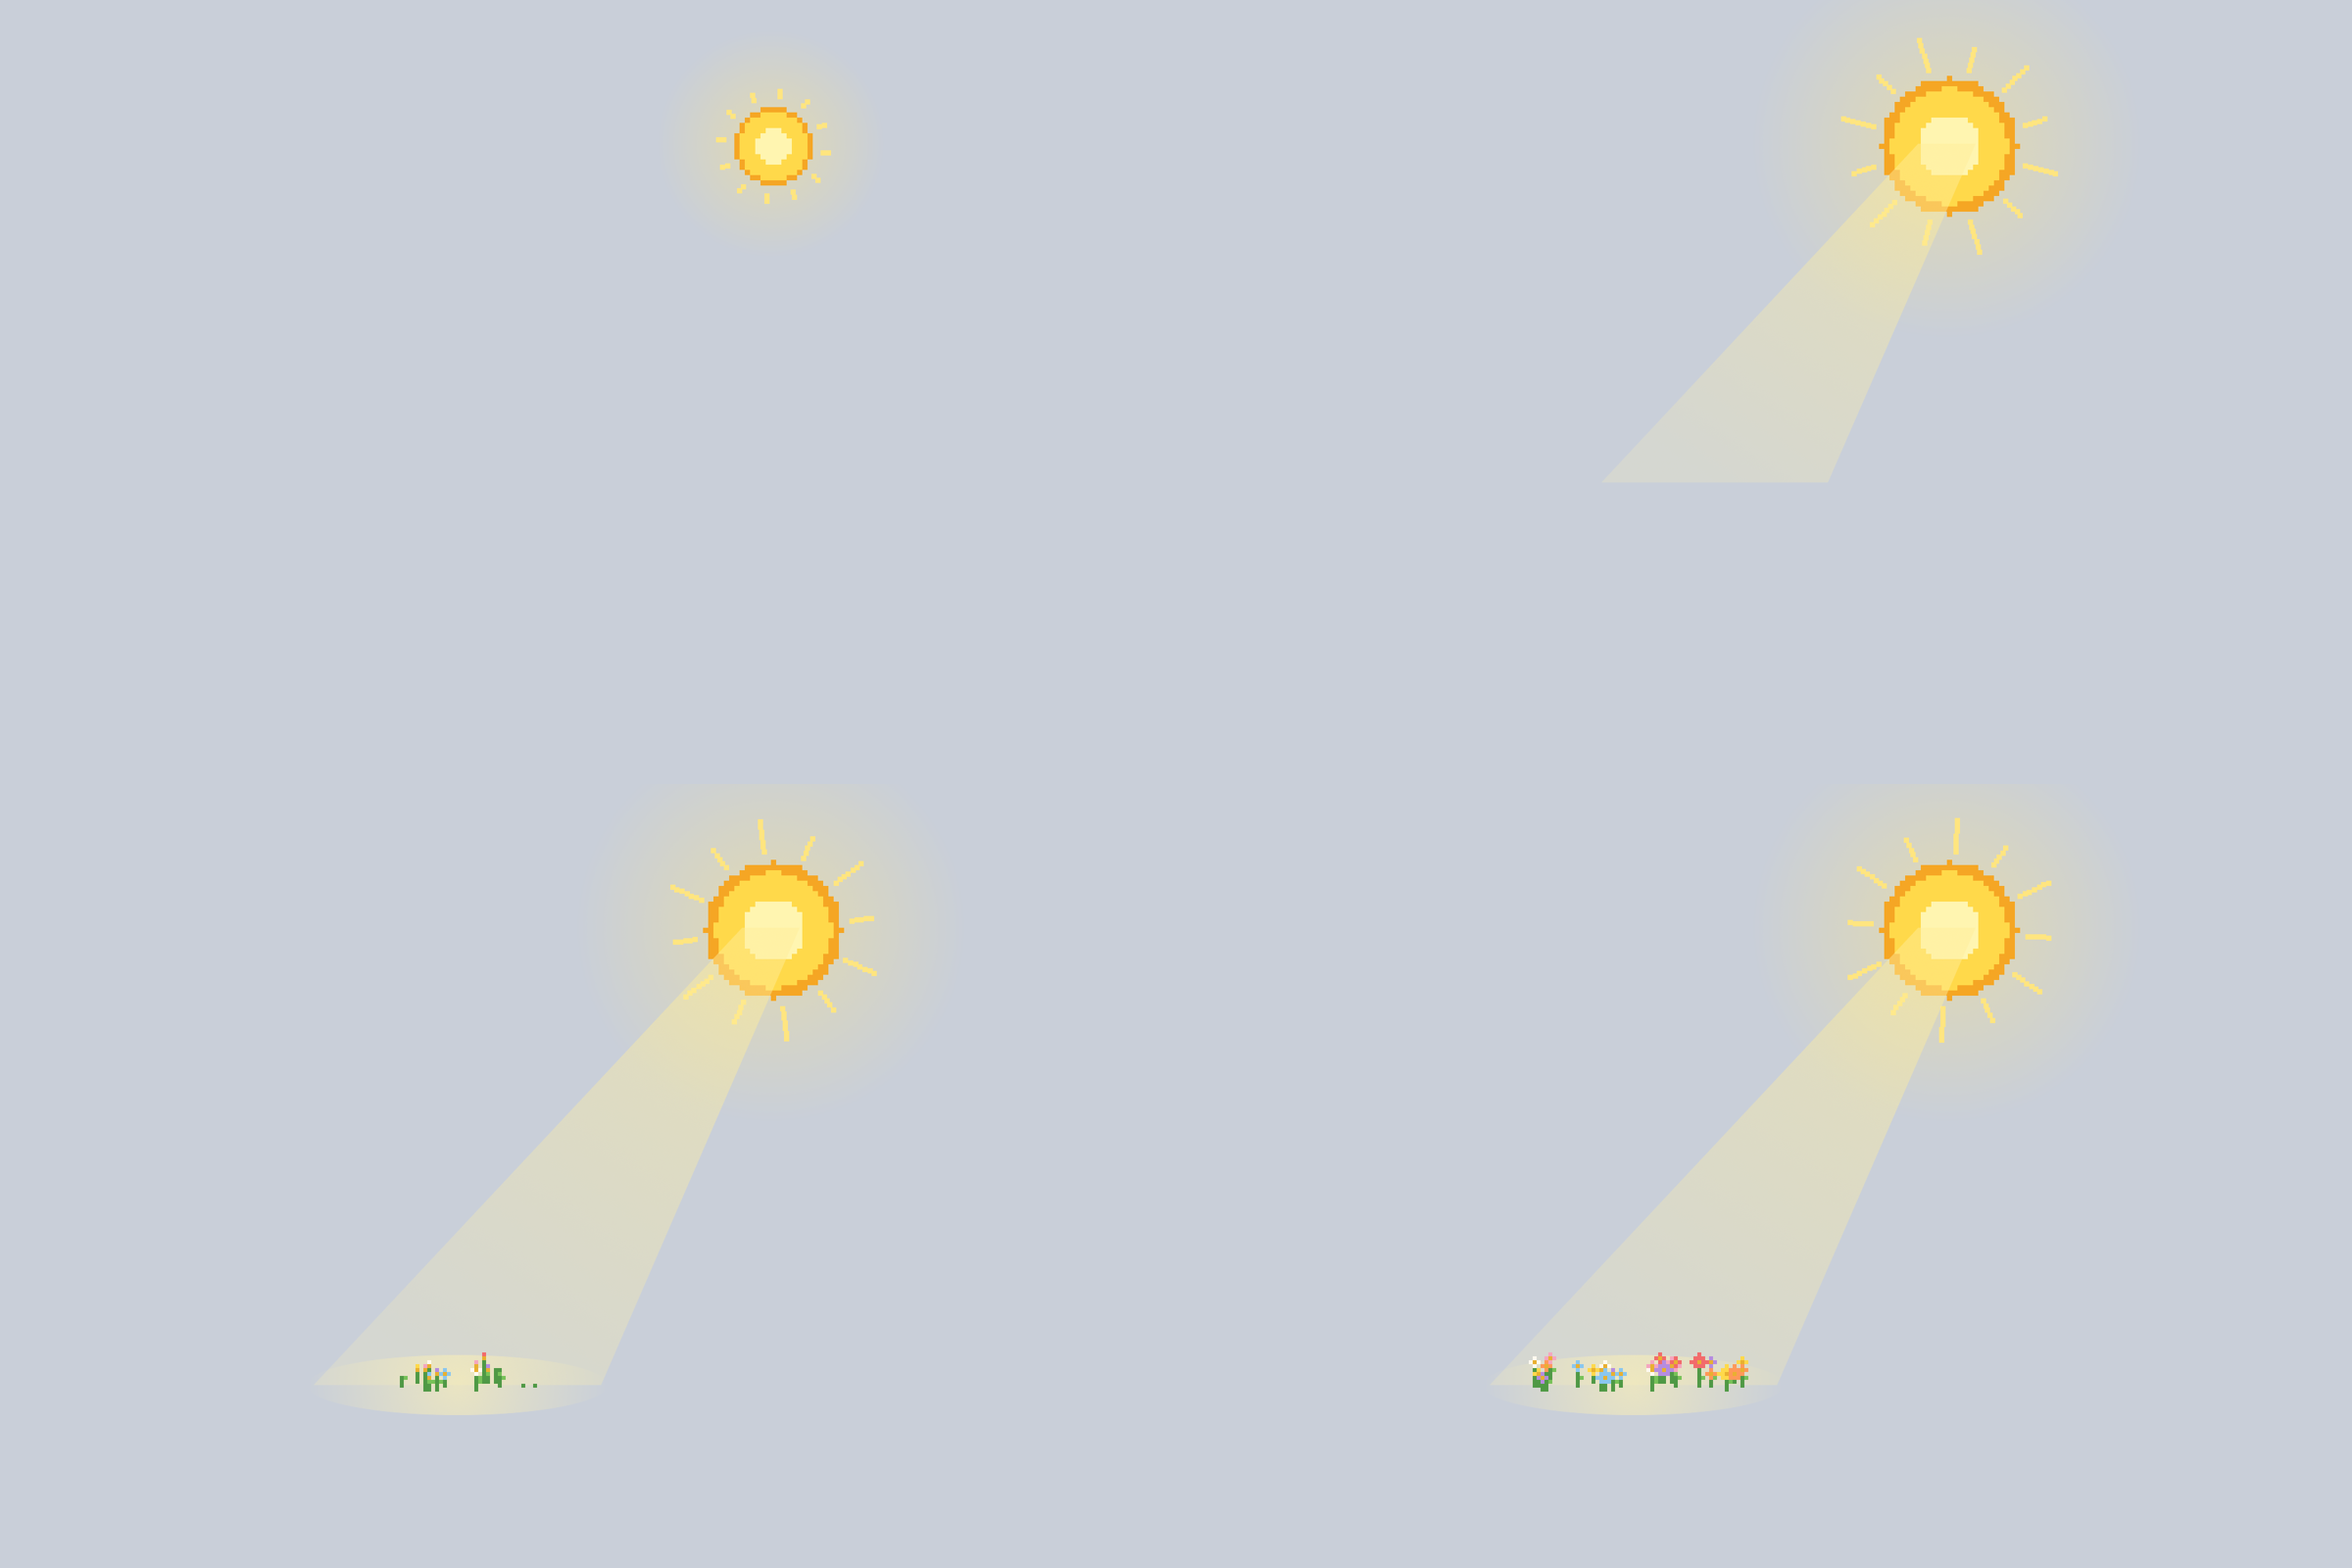
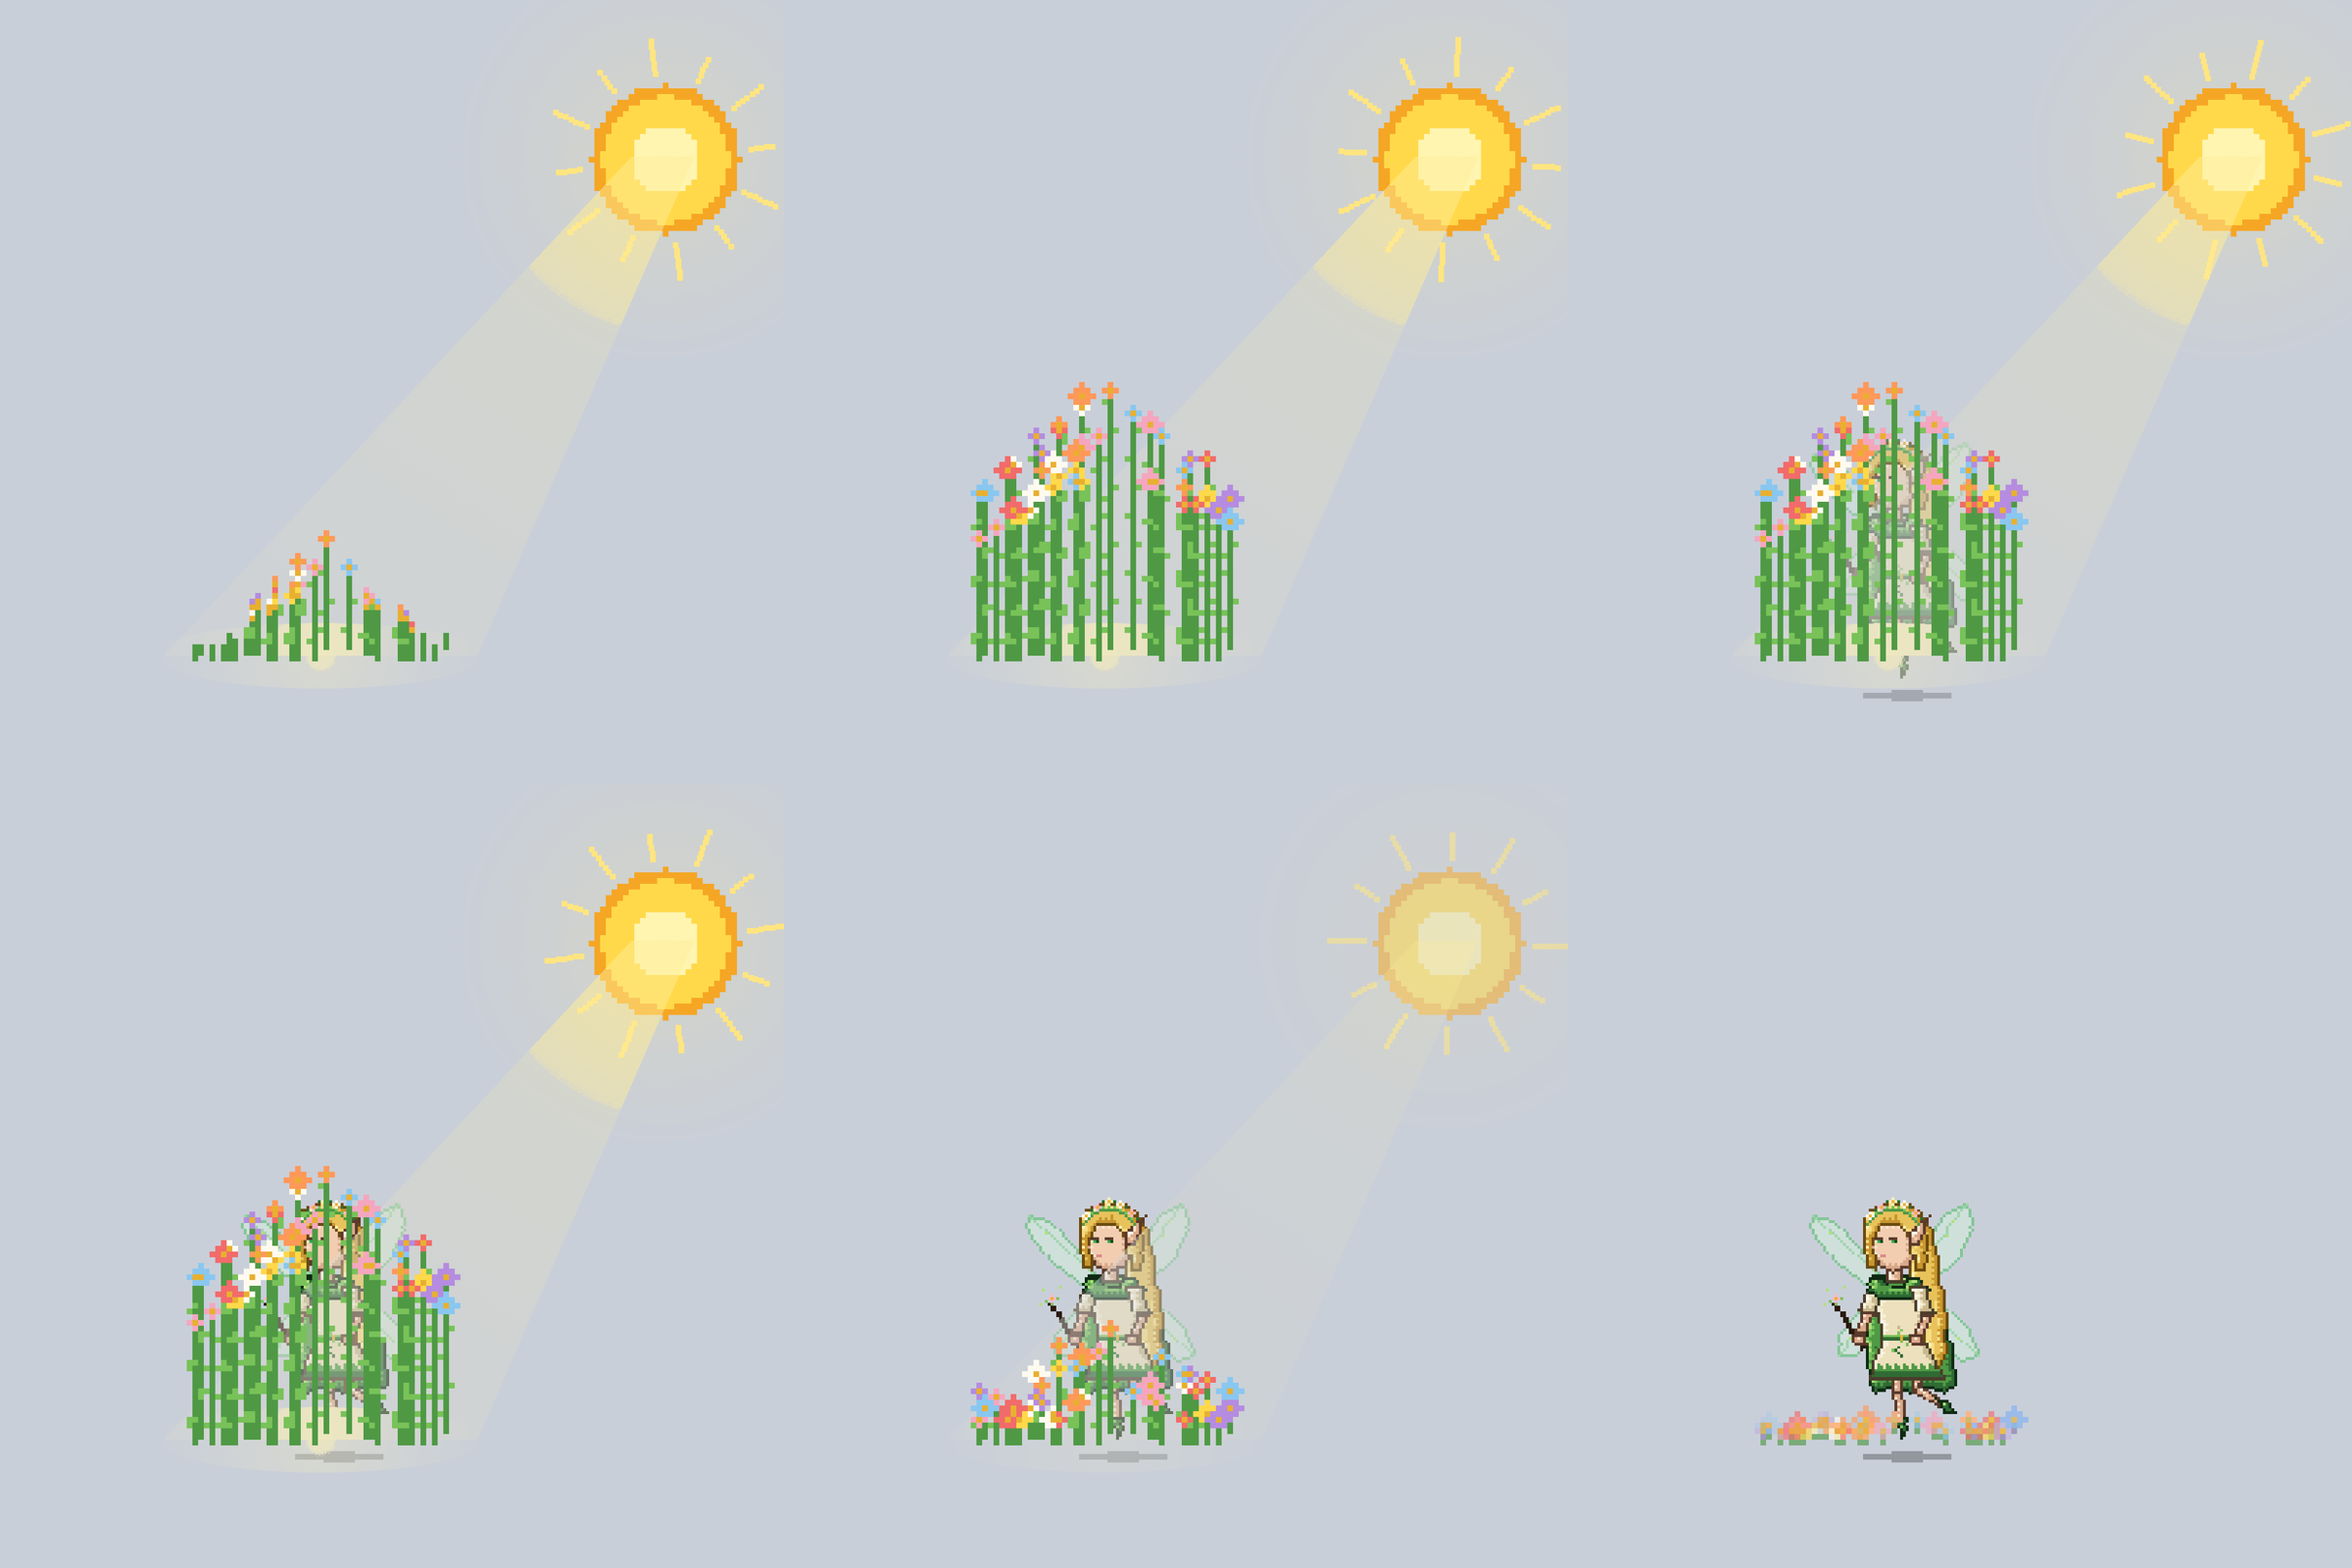
[Elf] Arrival flowers shoot up tall, she rises behind them, then they sink back; denser butterflies

diff --git a/Glitch/ElfMeadow.swift b/Glitch/ElfMeadow.swift
@@ -8,9 +8,9 @@ enum ElfMeadow {
 
     // MARK: - timings (shared by the overlay and the brain)
 
-    /// Arrival: the sun opens by `sunUp`, its beam reaches the ground at `bloomAt`, flowers bloom until `riseAt`,
-    /// she rises over the next second, then the light and the flowers fade.
-    static let sunUp = 0.9, beamAt = 0.6, bloomAt = 1.2, riseAt = 2.0, arrivalLength = 4.6
+    /// Arrival: the sun opens by `sunUp`, its beam reaches the ground at `bloomAt`, flowers shoot up tall until `riseAt`,
+    /// she rises behind them over the next second, the flowers sink back down from `shrinkAt`, then light and flowers fade.
+    static let sunUp = 0.9, beamAt = 0.6, bloomAt = 1.2, riseAt = 2.5, shrinkAt = 3.5, arrivalLength = 5.2
     /// Goodbye: the wand spell takes `spellLength`, then she becomes butterflies; the app may quit at `farewellLength`.
     static let spellLength = 1.2, farewellLength = 3.8
 
@@ -30,20 +30,29 @@ enum ElfMeadow {
     static let heart = Color(red: 0.91, green: 0.69, blue: 0.19)
     static let stem = Color(red: 0.31, green: 0.60, blue: 0.27), leaf = Color(red: 0.47, green: 0.76, blue: 0.35)
 
-    /// `dx`: pt from the landing spot, `dy`: pt above the ground line, `height`: stem cells, `bloom`: seconds into the arrival.
-    struct Flower { let dx: Double; let dy: Double; let height: Int; let color: Int; let big: Bool; let bloom: Double }
+    /// `dx`: pt from the landing spot, `dy`: pt above the ground line, `height`: stem cells at its tallest,
+    /// `bloom`: seconds into the arrival when it sprouts, `lag`: how much later than `shrinkAt` it starts to sink.
+    struct Flower { let dx: Double; let dy: Double; let height: Int; let color: Int; let big: Bool; let bloom: Double; let lag: Double }
 
     static let flowers: [Flower] = {
         var rng = SplitMix(seed: 0xF10A)
         func random() -> Double { Double(rng.next() % 10_000) / 10_000 }
-        return (0 ..< 32).map { i in
-            let dx = (random() * 2 - 1) * 95
-            // the middle blooms first and the bloom spreads outwards
-            let bloom = bloomAt + 0.7 * min(1, abs(dx) / 95) * (0.7 + 0.3 * random())
-            return Flower(dx: dx, dy: random() * 10 - 2, height: 3 + Int(random() * 6), color: i % petals.count,
-                          big: i % 4 == 0, bloom: min(riseAt - 0.05, bloom))
+        return (0 ..< 44).map { i in
+            let dx = (random() * 2 - 1) * 90
+            // the middle sprouts first and it spreads outwards; the middle ones grow tallest, a thicket she hides behind
+            let bloom = bloomAt + 0.4 * min(1, abs(dx) / 90) * (0.7 + 0.3 * random())
+            let height = Int((30 + 18 * random()) * (1 - 0.35 * abs(dx) / 90))
+            return Flower(dx: dx, dy: random() * 10 - 2, height: height, color: i % petals.count,
+                          big: i % 3 == 0, bloom: bloom, lag: 0.3 * random())
         }
     }()
+
+    /// Stem cells of flower `f` at `age`: it shoots up to its full height, then sinks back to a short sprig.
+    static func stemCells(_ f: Flower, age: Double) -> Int {
+        let grow = ease((age - f.bloom) / 0.9), sink = ease((age - shrinkAt - f.lag) / 0.9)
+        guard age > f.bloom else { return 0 }
+        return max(1, Int((2 + Double(f.height - 2) * grow * (1 - sink)).rounded()))
+    }
 
     struct MeadowView: View {
         let landing: CGPoint          // view coordinates (y down) of the middle of the pet window
@@ -61,7 +70,7 @@ enum ElfMeadow {
             Canvas { c, size in
                 // the sun stands high on the inner side of the landing spot, so its light falls slantwise
                 let sun = CGPoint(x: landing.x + (landing.x < size.width / 2 ? 240 : -240), y: max(110, ground - 560))
-                let lightFade = 1 - ease((age - 3.2) / 1.0)
+                let lightFade = 1 - ease((age - 3.8) / 1.0)
                 drawSun(c, at: sun, age: age, fade: lightFade)
                 drawBeam(c, from: sun, age: age, fade: lightFade)
                 drawFlowers(c, age: age)
@@ -132,9 +141,9 @@ enum ElfMeadow {
             }
         }
 
-        /// Each flower pushes up its stem, opens a bud, then the full blossom; all fade at the end.
+        /// Each flower shoots up its stem with leaves along it, opens a bud, then the full blossom; it sinks back, then all fade.
         private func drawFlowers(_ c: GraphicsContext, age: Double) {
-            let fade = 1 - ease((age - (arrivalLength - 1.0)) / 1.0)
+            let fade = 1 - ease((age - (arrivalLength - 0.5)) / 0.5)
             guard fade > 0 else { return }
             let unit = 4.0
             var stems = Path(), leaves = Path(), hearts = Path()
@@ -146,9 +155,11 @@ enum ElfMeadow {
                 let e = age - f.bloom
                 guard e > 0 else { continue }
                 let x = landing.x + f.dx, base = ground - f.dy
-                let grown = Int((Double(f.height) * ease(e / 0.25)).rounded(.up))
+                let grown = stemCells(f, age: age)
                 for k in 0 ..< grown { cell(&stems, x, base - Double(k) * unit) }
-                if f.height > 3, grown > 2 { cell(&leaves, x + unit, base - 2 * unit) }
+                for k in stride(from: 3, to: grown - 1, by: 5) {                    // leaves on alternate sides
+                    cell(&leaves, x + (k % 2 == 0 ? unit : -unit), base - Double(k) * unit)
+                }
                 let top = base - Double(grown) * unit
                 let open = e - 0.2
                 if open > 0 {
@@ -182,9 +193,9 @@ enum ElfMeadow {
     static let butterflies: [Butterfly] = {
         var rng = SplitMix(seed: 0xB077)
         func random() -> Double { Double(rng.next() % 10_000) / 10_000 }
-        return (0 ..< 22).map { i in
-            Butterfly(dx: (random() * 2 - 1) * 26, dy: (random() * 2 - 1) * 62,
-                      angle: -.pi * (0.08 + 0.84 * random()), speed: 170 + 140 * random(),
+        return (0 ..< 64).map { i in
+            Butterfly(dx: (random() * 2 - 1) * 34, dy: (random() * 2 - 1) * 70,
+                      angle: -.pi * (-0.1 + 1.2 * random()), speed: 150 + 170 * random(),
                       color: i % petals.count, phase: random() * 6.28)
         }
     }()

diff --git a/GlitchTests/ElfMeadowTests.swift b/GlitchTests/ElfMeadowTests.swift
@@ -25,10 +25,19 @@ struct ElfMeadowTests {
         #expect(ElfMeadow.arrivalLength > ElfMeadow.riseAt + 1.2)
     }
 
+    @Test func flowersShootUpTallThenSinkBack() {
+        let middle = ElfMeadow.flowers.filter { abs($0.dx) < 40 }
+        #expect(!middle.isEmpty)
+        for f in middle {
+            #expect(ElfMeadow.stemCells(f, age: ElfMeadow.riseAt) >= 25)                    // tall enough to hide her
+            #expect(ElfMeadow.stemCells(f, age: ElfMeadow.arrivalLength - 0.4) <= 3)        // back down again
+        }
+    }
+
     @Test func butterfliesLeaveBeforeTheAppQuits() {
         let screen = CGRect(x: 0, y: 0, width: 1440, height: 900)
         let center = CGPoint(x: 720, y: 450)
-        #expect(ElfMeadow.butterflies.count >= 16)
+        #expect(ElfMeadow.butterflies.count >= 50)
         for b in ElfMeadow.butterflies {
             #expect(ElfMeadow.flight(b, age: ElfMeadow.spellLength - 0.1, from: center).alpha == 0)   // none before the spell ends
             let gone = ElfMeadow.flight(b, age: ElfMeadow.farewellLength, from: center)
